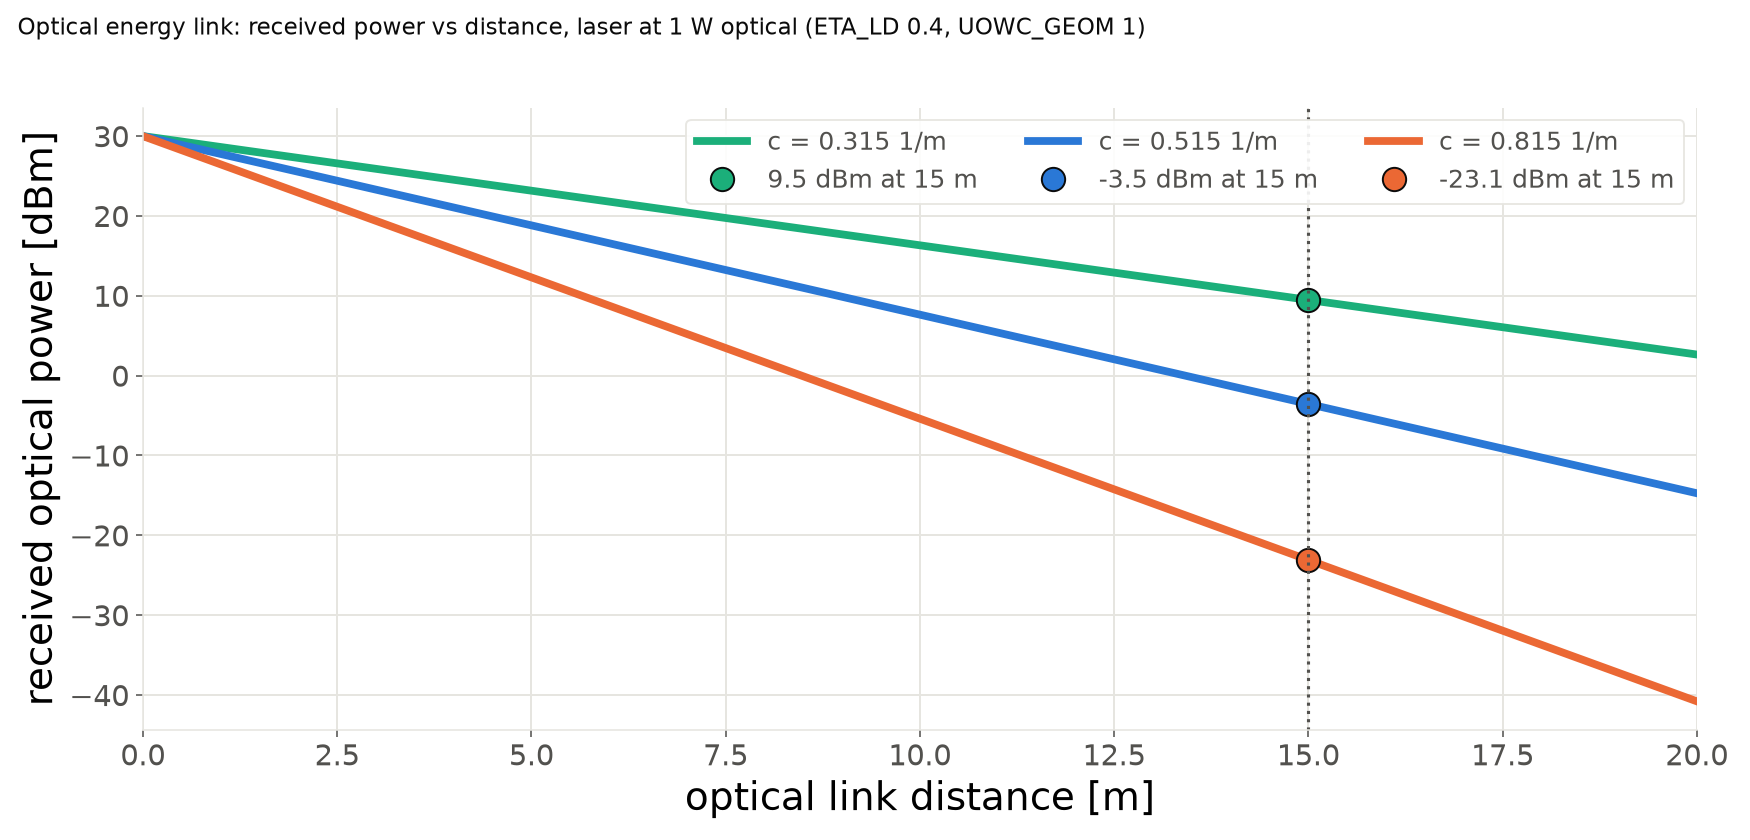
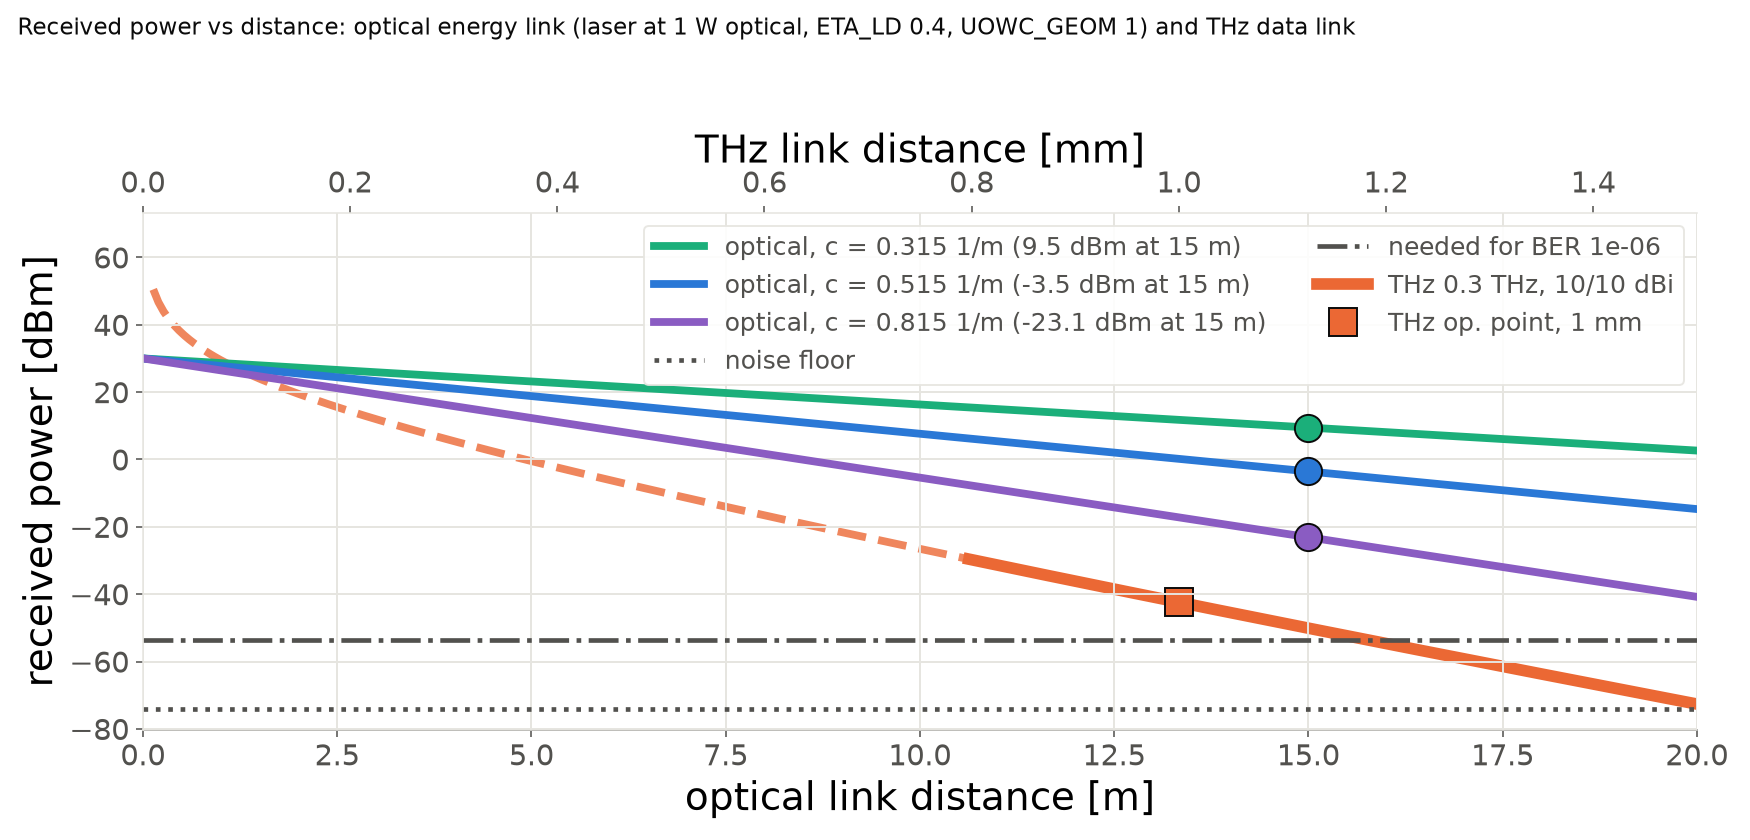
UOWC received-power sweep on the same axes as the THz link
Shared _plot_rx_vs_distance body (optical bottom axis, THz twin top axis);
plot_received_power_vs_distance output unchanged (byte-identical PNG).

diff --git a/advanced_DWF/dwf2d/plotting/thz_link.py b/advanced_DWF/dwf2d/plotting/thz_link.py
@@ -675,10 +675,28 @@ def plot_received_power_vs_distance(jp, r, link: dict, path: str, title: str = "
     The operating distances D_UOWC_M and D_THZ_M are marked.  link = slave_load.thz_link() (preset, gains, noise).
     """
     import slave_config as cfg
-    from scipy.optimize import brentq
-    from .style import AXIS_FONTSIZE, TICK_FONTSIZE, C_LINK, C_SLAVE, GRID, INK, INK2, _style
+    from .style import C_LINK
 
+    # ---- optical energy link: peak received power only ----------------------------------------------------
     tau = jp.master.tau
+    sent = np.asarray(r.delta, float) / tau                             # master electrical sharing power [W]
+    on = sent > 1e-12 * max(sent.max(), 1e-300)
+    optical = []
+    if on.any():
+        optical.append(dict(c=cfg.UOWC_C_PER_M, p_tx=sent[on].max(), color=C_LINK, label="optical link, peak",
+                            op_label=f"optical op. point, {cfg.D_UOWC_M:g} m"))
+    head = "Received power vs distance: optical energy link and THz data link" + (f"\n{title}" if title else "")
+    _plot_rx_vs_distance(optical, link, path, head)
+
+
+def _plot_rx_vs_distance(optical, link: dict, path: str, head: str, d_max_m: float = 20.0):
+    """Shared body of the received-power-vs-distance figures: optical curves on the bottom axis [m], the THz link on a
+    twin top axis [mm], one y-axis [dBm].  optical: list of dict(c, p_tx, color, label, op_label), one curve each,
+    P_rx(d) = p_tx * uowc_alpha(d, c, ETA_LD, UOWC_GEOM), with a marker at D_UOWC_M (op_label None: no legend entry)."""
+    import slave_config as cfg
+    from scipy.optimize import brentq
+    from .style import AXIS_FONTSIZE, TICK_FONTSIZE, C_SLAVE, GRID, INK, INK2, _style
+
     fig, ax = plt.subplots(figsize=(12.5, 6.0), facecolor="white")
     _style(ax)
     ax.grid(True, axis="both", color=GRID, lw=1)
@@ -688,17 +706,14 @@ def plot_received_power_vs_distance(jp, r, link: dict, path: str, title: str = "
         axt.spines[sp].set_visible(False)
     axt.spines["top"].set_color(GRID)
 
-    # ---- optical energy link: peak received power only (distance in m, bottom axis) ----------------------
-    d_o = np.linspace(0.0, 20.0, 400)                                  # 0 .. 100 m
-    alpha_d = ch.uowc_alpha(d_o, cfg.UOWC_C_PER_M, cfg.ETA_LD, cfg.UOWC_GEOM)
-    sent = np.asarray(r.delta, float) / tau                             # master electrical sharing power [W]
-    on = sent > 1e-12 * max(sent.max(), 1e-300)
-    if on.any():
-        p_tx = sent[on].max()
-        ax.plot(d_o, _dbm(p_tx * alpha_d), color=C_LINK, lw=4, label="optical link, peak")
-        d_op = cfg.D_UOWC_M
-        p_op = p_tx * float(ch.uowc_alpha(d_op, cfg.UOWC_C_PER_M, cfg.ETA_LD, cfg.UOWC_GEOM))
-        ax.plot(d_op, _dbm(p_op), "o", color=C_LINK, mec=INK, ms=14, label=f"optical op. point, {d_op:g} m")
+    # ---- optical energy link (distance in m, bottom axis) ------------------------------------------------
+    d_o = np.linspace(0.0, d_max_m, 400)
+    d_op = cfg.D_UOWC_M
+    for o in optical:
+        alpha_d = ch.uowc_alpha(d_o, o["c"], cfg.ETA_LD, cfg.UOWC_GEOM)
+        ax.plot(d_o, _dbm(o["p_tx"] * alpha_d), color=o["color"], lw=4, label=o["label"])
+        p_op = o["p_tx"] * float(ch.uowc_alpha(d_op, o["c"], cfg.ETA_LD, cfg.UOWC_GEOM))
+        ax.plot(d_op, _dbm(p_op), "o", color=o["color"], mec=INK, ms=14, label=o["op_label"] or "_nolegend_")
 
     # ---- THz data link ----------------------------------------------------------------------
     d_t = np.linspace(0.01, 1.5, 300) * 1e-3
@@ -725,7 +740,7 @@ def plot_received_power_vs_distance(jp, r, link: dict, path: str, title: str = "
     pr_op = float(b_op["pr_dbw"]) + 30
     axt.plot(link["d_eff"] * 1e3, pr_op, "s", color=C_SLAVE, mec=INK, ms=14, label=f"THz op. point, {link['d_eff'] * 1e3:g} mm")
 
-    ax.set_xlim(0, 20)
+    ax.set_xlim(0, d_max_m)
     axt.set_xlim(0, 1.5)
     ax.set_xlabel("optical link distance [m]", fontsize=AXIS_FONTSIZE, color="black")
     axt.set_xlabel("THz link distance [mm]", fontsize=AXIS_FONTSIZE, color="black")
@@ -740,52 +755,38 @@ def plot_received_power_vs_distance(jp, r, link: dict, path: str, title: str = "
     ax.set_zorder(axt.get_zorder() + 1)                                 # keep the legend above the twin axis
     ax.patch.set_visible(False)
 
-    head = "Received power vs distance: optical energy link and THz data link" + (f"\n{title}" if title else "")
     fig.suptitle(head, x=0.01, ha="left", color=INK, fontsize=12)
     fig.tight_layout(rect=(0, 0, 1, 0.92))
     fig.savefig(path, dpi=140)
     plt.close(fig)
 
 
-def plot_uowc_received_power_sweep(c_values, path: str, d_max_m: float = 20.0, csv_path: str | None = None):
-    """Optical energy link only: received power vs distance, one curve per water attenuation c in c_values [1/m].
+def plot_uowc_received_power_sweep(c_values, link: dict, path: str, d_max_m: float = 20.0, csv_path: str | None = None):
+    """Received power vs distance with one optical curve per water attenuation c in c_values [1/m], on the same axes
+    as the THz data link (the figure of plot_received_power_vs_distance).
 
         P_rx(d) = P_elec * uowc_alpha(d, c, ETA_LD, UOWC_GEOM),   P_elec = LASER_P_OPT_MAX_W / ETA_LD
     i.e. the laser at its optical cap (no DWF solve: the curves do not depend on the sharing schedule).
-    D_UOWC_M is marked on every curve.  csv_path (optional) gets distance and P_rx [W] per c.
+    link = slave_load.thz_link().  csv_path (optional) gets distance and the optical P_rx [W] per c.
     """
     import csv
     import slave_config as cfg
-    from .style import C_LINK, C_MASTER, C_SLAVE, GRID, INK, INK2, _style
+    from .style import C_LINK, C_MASTER
 
     p_elec = float(cfg.LASER_P_OPT_MAX_W) / float(cfg.ETA_LD)          # electrical drive at the optical cap [W]
-    d = np.linspace(0.0, d_max_m, 400)
     d_op = float(cfg.D_UOWC_M)
-    colors = (C_LINK, C_MASTER, C_SLAVE)
-    fig, ax = plt.subplots(figsize=(12.5, 6.0), facecolor="white")
-    _style(ax)
-    ax.grid(True, axis="both", color=GRID, lw=1)
-    curves = {}
+    colors = (C_LINK, C_MASTER, "#8a5cc2")                              # C_SLAVE stays the THz curve's colour
+    optical = []
     for i, c in enumerate(c_values):
-        col = colors[i % len(colors)]
-        p_rx = p_elec * ch.uowc_alpha(d, float(c), cfg.ETA_LD, cfg.UOWC_GEOM)
-        curves[float(c)] = p_rx
         p_op = p_elec * float(ch.uowc_alpha(d_op, float(c), cfg.ETA_LD, cfg.UOWC_GEOM))
-        ax.plot(d, _dbm(p_rx), color=col, lw=4, label=f"c = {float(c):g} 1/m")
-        ax.plot(d_op, _dbm(p_op), "o", color=col, mec=INK, ms=12, label=f"{_dbm(p_op):.1f} dBm at {d_op:g} m")
-    ax.axvline(d_op, color=INK2, lw=1.6, ls=":")
-    ax.set_xlim(0, d_max_m)
-    ax.set_xlabel("optical link distance [m]", fontsize=AXIS_FONTSIZE, color="black")
-    ax.set_ylabel("received optical power [dBm]", fontsize=AXIS_FONTSIZE)
-    ax.legend(frameon=True, framealpha=0.9, facecolor="white", edgecolor=GRID, loc="upper right", ncol=len(curves),
-              fontsize=LEGEND_FONTSIZE, labelcolor=INK2)          # one column per c: curve above its marker
-    head = (f"Optical energy link: received power vs distance, laser at {cfg.LASER_P_OPT_MAX_W:g} W optical "
-            f"(ETA_LD {cfg.ETA_LD:g}, UOWC_GEOM {cfg.UOWC_GEOM:g})")
-    fig.suptitle(head, x=0.01, ha="left", color=INK, fontsize=12)
-    fig.tight_layout(rect=(0, 0, 1, 0.95))
-    fig.savefig(path, dpi=140)
-    plt.close(fig)
+        optical.append(dict(c=float(c), p_tx=p_elec, color=colors[i % len(colors)], op_label=None,
+                            label=f"optical, c = {float(c):g} 1/m ({_dbm(p_op):.1f} dBm at {d_op:g} m)"))
+    head = (f"Received power vs distance: optical energy link (laser at {cfg.LASER_P_OPT_MAX_W:g} W optical, "
+            f"ETA_LD {cfg.ETA_LD:g}, UOWC_GEOM {cfg.UOWC_GEOM:g}) and THz data link")
+    _plot_rx_vs_distance(optical, link, path, head, d_max_m)
     if csv_path:
+        d = np.linspace(0.0, d_max_m, 400)
+        curves = {o["c"]: p_elec * ch.uowc_alpha(d, o["c"], cfg.ETA_LD, cfg.UOWC_GEOM) for o in optical}
         with open(csv_path, "w", newline="") as fh:
             w = csv.writer(fh)
             w.writerow(["distance_m"] + [f"p_rx_W_c{c:g}" for c in curves])

diff --git a/advanced_DWF/dwf2d/demos.py b/advanced_DWF/dwf2d/demos.py
@@ -274,13 +274,16 @@ def integrated_demo_uowc_sweep(outdir: str = "out_uowc_sweep", c_values=None, pr
 
 def uowc_received_power_sweep(outdir: str = "out_uowc_received_power", c_values=None):
     """Optical link received power vs distance only, one curve per c in c_values (default UOWC_C_PER_M_SWEEP).
-    No DWF solve; writes received_power_vs_distance.png and received_power_vs_distance.csv to outdir."""
+    On the same axes as the THz link (THZ_PRESET).  No DWF solve; writes received_power_vs_distance.png and
+    received_power_vs_distance.csv to outdir."""
     import os
     import slave_config as cfg
+    import slave_load
     c_values = cfg.UOWC_C_PER_M_SWEEP if c_values is None else c_values
     os.makedirs(outdir, exist_ok=True)
     png = os.path.join(outdir, "received_power_vs_distance.png")
-    plot_uowc_received_power_sweep(c_values, png, csv_path=os.path.join(outdir, "received_power_vs_distance.csv"))
+    plot_uowc_received_power_sweep(c_values, slave_load.thz_link(None), png,
+                                   csv_path=os.path.join(outdir, "received_power_vs_distance.csv"))
     print(f"wrote received_power_vs_distance.png/.csv for c = {', '.join(f'{float(c):g}' for c in c_values)} 1/m "
           f"to {outdir}")
     return png
